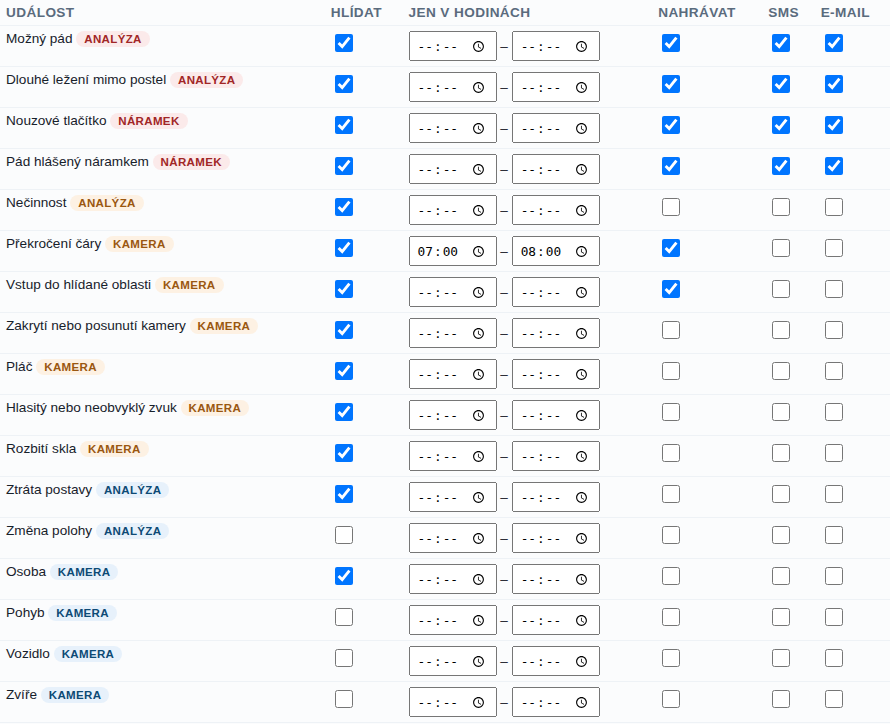
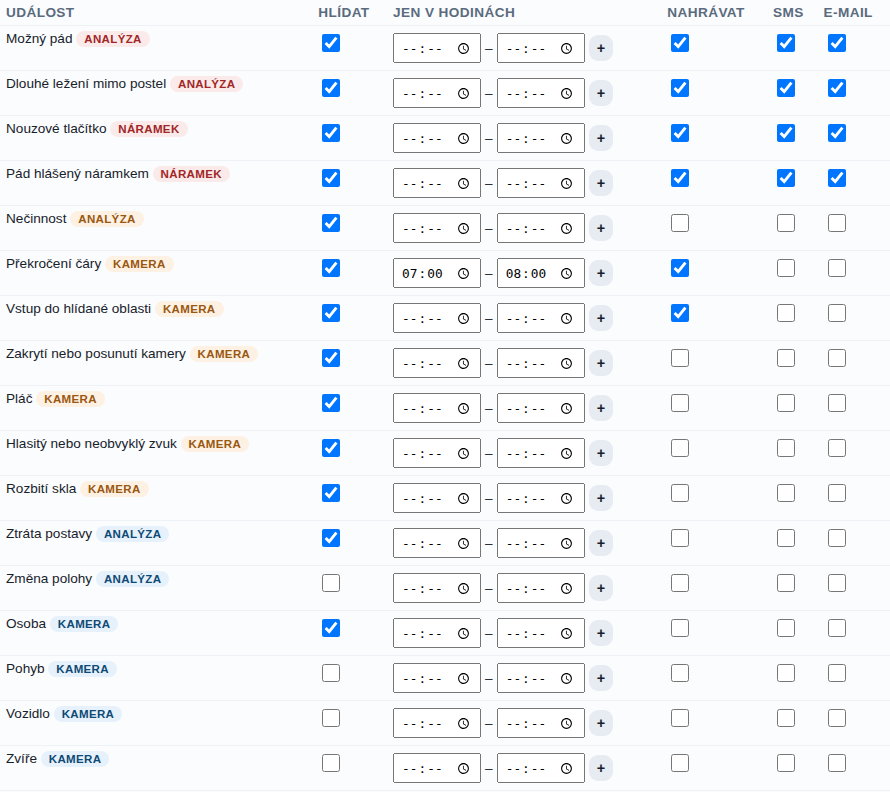
Nastavení: až tři časová okna na událost (Jen v hodinách, tlačítko +), např. 07:00–08:00, 12:00–13:00, 19:00–20:00
- sim-core: okna()/oknaText(), withinHours přes všechna okna, setWatch from2/to2/from3/to3 s kontrolou
  celého okna, popis pro rodinu a důvod zahození s výčtem oken
- dispečink: buňka Jen v hodinách se třemi řádky (druhé a třetí po +), uložení a načtení; CSS
- nápověda, CHANGELOG (2.7); test oken včetně okna přes půlnoc

Claude-Session: https://claude.ai/code/session_013Q43w1EYgsA74FWdGJXT9h

diff --git a/public/proto/napoveda.js b/public/proto/napoveda.js
@@ -16,7 +16,7 @@ export const TEMATA = [
   { id: 'rodina', obrazky: [{ src: '/proto/napoveda/uzivatele.png', popis: 'Uživatelé rodiny v detailu skutečné kamery: založení účtu a pozvánka SMS' }], nazev: 'Uživatelé rodiny a pozvánka SMS', klicova: ['rodin', 'uzivatel', 'pozvank', 'sms', 'ucet', 'heslo', 'telefon', 'prihlasit rodinu', 'zapomn', 'odebrat', 'nedosla', 'nechodi', 'zkusebni', 'twilio'],
     text: 'V detailu skutečné kamery v sekci Komunikace je část „Uživatelé rodiny“. Zadejte jméno a telefon, zaškrtněte „poslat SMS ze serveru“ a založte účet: rodina dostane SMS s odkazem. Heslo v SMS není: rodina si ho zvolí sama po otevření odkazu (obrazovka „Zvolte si heslo“) a dál se přihlašuje telefonem a heslem. Odkaz platí 7 dní a je na jedno použití; otevřený na počítači, kde je přihlášený poskytovatel nebo jiný člen rodiny, přesto ukáže volbu hesla pro nového člena. Změna hesla: v aplikaci rodiny karta Můj účet → Změnit heslo. Zapomenuté heslo: „Nová pozvánka (nové heslo)“ pošle nový odkaz a staré heslo přestane platit. „Odebrat“ účet zruší a rodinu odhlásí. SMS odchází ze serveru přes Make a Twilio; když nedošla, otevřete Nastavení (ozubené kolečko) → SMS rodině a pošlete si zkušební SMS na vlastní číslo: hned uvidíte, jestli je SMS nastavená a jestli došla, případně důvod chyby.' },
   { id: 'sledovani', obrazky: [{ src: '/proto/napoveda/sledovani.png', popis: 'Sekce Nastavení v detailu kamery: Hlídat, Jen v hodinách, Nahrávat, SMS, E-mail' }], nazev: 'Sledování, nahrávání a upozornění (sekce Nastavení)', klicova: ['sledov', 'hlidat', 'nahrav', 'hodiny', 'vypnout udalost', 'nezapsala', 'prekroceni', 'cara', 'zakryti', 'necinnost', 'zatrhnout', 'nastaveni kamery', 'plac', 'zvuk', 'sklo', 'vozidlo', 'zvire', 'oblast', 'vstup', 'detekce', 'co kamera umi'],
-    text: 'Detail kamery má tři sekce: Monitoring (obraz, žádost o plný obraz, nouzový přístup, historie), Komunikace (uživatelé rodiny, kontakty pro upozornění, poznámky) a Nastavení. V Nastavení v tabulce „Sledování, nahrávání a upozornění“ určujete, které události se hlídají, jen v kterých hodinách, jestli se k nim ukládá nahrávka a jestli má při události odejít SMS a e-mail na kontakty zadané v Komunikaci (sloupce SMS a E-mail se zapnou až po vyplnění kontaktů; kritické události mají SMS i e-mail zatržené předem). Z kamery Tapo jsou v tabulce všechny detekce, které umí hlásit: překročení čáry, vstup do hlídané oblasti, zakrytí nebo posunutí kamery, pláč, hlasitý nebo neobvyklý zvuk, rozbití skla, osoba, pohyb, vozidlo a zvíře (štěkot a mňoukání se počítají jako zvíře); co z toho vaše kamera opravdu umí, záleží na modelu (C200 jen pohyb, C210/C220 i osobu, vozidlo, zvíře, čáru, oblast, pláč) a na tom, co je zapnuté v aplikaci Tapo. Vozidlo a zvíře jsou výchozí vypnuté. Rodina to vidí jen ke čtení v kartě „Co poskytovatel hlídá“ (🎞 nahrává, 📱 SMS, ✉ e-mail). Událost mimo nastavené hodiny nebo vypnutá se nezapíše a nikoho neupozorní; panel Simulace pak ukáže, proč.' },
+    text: 'Detail kamery má tři sekce: Monitoring (obraz, žádost o plný obraz, nouzový přístup, historie), Komunikace (uživatelé rodiny, kontakty pro upozornění, poznámky) a Nastavení. V Nastavení v tabulce „Sledování, nahrávání a upozornění“ určujete, které události se hlídají, jen v kterých hodinách (až tři časová okna na událost, tlačítkem + přidáte druhé a třetí, např. 07:00–08:00, 12:00–13:00 a 19:00–20:00; okno přes půlnoc jde také, 22:00–06:00), jestli se k nim ukládá nahrávka a jestli má při události odejít SMS a e-mail na kontakty zadané v Komunikaci (sloupce SMS a E-mail se zapnou až po vyplnění kontaktů; kritické události mají SMS i e-mail zatržené předem). Z kamery Tapo jsou v tabulce všechny detekce, které umí hlásit: překročení čáry, vstup do hlídané oblasti, zakrytí nebo posunutí kamery, pláč, hlasitý nebo neobvyklý zvuk, rozbití skla, osoba, pohyb, vozidlo a zvíře (štěkot a mňoukání se počítají jako zvíře); co z toho vaše kamera opravdu umí, záleží na modelu (C200 jen pohyb, C210/C220 i osobu, vozidlo, zvíře, čáru, oblast, pláč) a na tom, co je zapnuté v aplikaci Tapo. Vozidlo a zvíře jsou výchozí vypnuté. Rodina to vidí jen ke čtení v kartě „Co poskytovatel hlídá“ (🎞 nahrává, 📱 SMS, ✉ e-mail). Událost mimo nastavené hodiny nebo vypnutá se nezapíše a nikoho neupozorní; panel Simulace pak ukáže, proč.' },
   { id: 'upozorneni', obrazky: [{ src: '/proto/napoveda/kontakty.png', popis: 'Sekce Komunikace: až tři čísla na SMS a tři e-maily pro upozornění' }], nazev: 'Upozornění SMS a e-mailem (kontakty kamery)', klicova: ['upozorn', 'kontakt', 'tri cisla', 'e-mail', 'email', 'mail', 'sms pri udalosti', 'komu jde', 'nedosla', 'neprisla', 'kdo dostane'],
     text: 'V detailu kamery v sekci Komunikace → „Kontakty pro upozornění“ zadejte až tři česká mobilní čísla a tři e-maily (rodina, pečovatelka, lékař) a klepněte na Uložit kontakty; změna se zapíše do historie kamery. Pak v sekci Nastavení zatrhněte u událostí sloupce SMS a E-mail: kritické (pád, dlouhé ležení, SOS, pád náramku) jsou zatržené předem, varování a informativní si zapnete podle potřeby. Server při události pošle SMS (text bez diakritiky: klient, událost, čas, telefon dispečinku) a e-mail s podrobnostmi; v Historii je u události 📱 2/2 ✉ 1/1, tedy kolik zpráv odešlo, a při chybě důvod po najetí myší. Odchází jen to, co projde sloupcem Hlídat a hodinami. Posílá se přes stejný webhook Make jako pozvánky (SMS Twilio, e-mail ze schránky Centrum LB); jestli je cesta nastavená, ověříte v Nastavení (ozubené kolečko) tlačítky Poslat SMS a Poslat e-mail.' },
   { id: 'poznamky', obrazky: [{ src: '/proto/napoveda/komunikace.png', popis: 'Sekce Komunikace v detailu kamery: poskytovatel, poznámka ke klientovi, dál uživatelé rodiny, kontakty a poznámky' }, { src: '/proto/napoveda/poznamky.png', popis: 'Poznámky dispečinku: pole, tlačítko a seznam s časem a jménem' }], nazev: 'Poznámky dispečinku ke kameře', klicova: ['poznamk', 'zapsat', 'zapis', 'zaznam', 'log', 'co jsem udelal', 'deník', 'denik'],

diff --git a/public/proto/dispecink.js b/public/proto/dispecink.js
@@ -465,7 +465,7 @@ function renderDetail(rebuild = false) {
       </div></section>
       <section class="dsec hide" data-sec="nastaveni">
         <div class="blok"><h3>Sledování, nahrávání a upozornění</h3><p class="small muted">– nastavuje poskytovatel, rodina to vidí; SMS a E-mail jdou na kontakty z Komunikace</p>
-        <table class="watch"><thead><tr><th>Událost</th><th>Hlídat</th><th>Jen v hodinách</th><th>Nahrávat</th><th>SMS</th><th>E-mail</th></tr></thead><tbody id="dwatch">${WATCH_KINDS.map((k) => `<tr data-k="${k}"><td>${esc(KINDS[k].label)} <span class="badge ${KINDS[k].level}">${esc(KINDS[k].source)}</span></td><td><input type="checkbox" class="on"></td><td><input type="time" class="from"> – <input type="time" class="to"></td><td><input type="checkbox" class="rec"></td><td><input type="checkbox" class="sms"></td><td><input type="checkbox" class="mail"></td></tr>`).join('')}</tbody></table>
+        <table class="watch"><thead><tr><th>Událost</th><th>Hlídat</th><th>Jen v hodinách</th><th>Nahrávat</th><th>SMS</th><th>E-mail</th></tr></thead><tbody id="dwatch">${WATCH_KINDS.map((k) => `<tr data-k="${k}"><td>${esc(KINDS[k].label)} <span class="badge ${KINDS[k].level}">${esc(KINDS[k].source)}</span></td><td><input type="checkbox" class="on"></td><td class="hod"><div class="okno"><input type="time" class="from"> – <input type="time" class="to"> <button type="button" class="sm sec okno-dalsi" title="přidat další časové okno (až tři, např. 07:00–08:00, 12:00–13:00, 19:00–20:00)">+</button></div><div class="okno hide"><input type="time" class="from2"> – <input type="time" class="to2"></div><div class="okno hide"><input type="time" class="from3"> – <input type="time" class="to3"></div></td><td><input type="checkbox" class="rec"></td><td><input type="checkbox" class="sms"></td><td><input type="checkbox" class="mail"></td></tr>`).join('')}</tbody></table>
         <p class="small muted" id="dwatchPozn"></p>
       </div></section>`;
     detailUnreg = zdrojPro(p.id).register(d.querySelector('#dcv'), () => detailMode(selected));
@@ -479,6 +479,7 @@ function renderDetail(rebuild = false) {
         const k = tr.dataset.k, w = pp.watch?.[k] || { on: true, from: '', to: '', rec: false };
         if (document.activeElement && tr.contains(document.activeElement)) return;
         tr.querySelector('.on').checked = w.on; tr.querySelector('.from').value = w.from; tr.querySelector('.to').value = w.to; tr.querySelector('.rec').checked = w.rec;
+        for (const n of [2, 3]) { const f = tr.querySelector('.from' + n), t = tr.querySelector('.to' + n); f.value = w['from' + n] || ''; t.value = w['to' + n] || ''; if (f.value || t.value) f.closest('.okno').classList.remove('hide'); }
         const cs = tr.querySelector('.sms'), cm = tr.querySelector('.mail');
         cs.checked = w.sms ?? upozorneniVychozi(k); cm.checked = w.mail ?? upozorneniVychozi(k);
         cs.disabled = !kk.sms.length; cm.disabled = !kk.mail.length;
@@ -492,8 +493,10 @@ function renderDetail(rebuild = false) {
     naplnWatch();
     d.querySelectorAll('#dwatch tr').forEach((tr) => {
       const k = tr.dataset.k;
-      const push = () => sim.setWatch(p.id, k, { on: tr.querySelector('.on').checked, from: tr.querySelector('.from').value, to: tr.querySelector('.to').value, rec: tr.querySelector('.rec').checked, sms: tr.querySelector('.sms').checked, mail: tr.querySelector('.mail').checked });
+      const push = () => sim.setWatch(p.id, k, { on: tr.querySelector('.on').checked, from: tr.querySelector('.from').value, to: tr.querySelector('.to').value, from2: tr.querySelector('.from2').value, to2: tr.querySelector('.to2').value, from3: tr.querySelector('.from3').value, to3: tr.querySelector('.to3').value, rec: tr.querySelector('.rec').checked, sms: tr.querySelector('.sms').checked, mail: tr.querySelector('.mail').checked });
       tr.querySelectorAll('input').forEach((i) => { i.onchange = push; });
+      // + odkryje další okno (druhé, pak třetí); okna se zapisují jen vyplněná celá
+      tr.querySelector('.okno-dalsi').onclick = () => { const skryta = [...tr.querySelectorAll('.okno.hide')]; if (skryta.length) { skryta[0].classList.remove('hide'); skryta[0].querySelector('input').focus(); } if (skryta.length <= 1) tr.querySelector('.okno-dalsi').disabled = true; };
     });
     d.querySelector('#closeD').onclick = () => { selected = null; renderDetail(); renderTiles(); };
     renderUzivatele(p);

diff --git a/public/proto/sim-core.js b/public/proto/sim-core.js
@@ -49,7 +49,7 @@ export function defaultWatch() {
   return w;
 }
 export function describeWatch(w) {
-  const hodiny = (r) => (r.from ? ` ${r.from}–${r.to}` : '');
+  const hodiny = (r) => { const t = oknaText(r); return t ? ` ${t}` : ''; };
   const on = WATCH_KINDS.filter((k) => w[k]?.on).map((k) => KINDS[k].label.toLowerCase() + hodiny(w[k]) + (w[k].rec ? ' 🎞' : '') + (w[k].sms ? ' 📱' : '') + (w[k].mail ? ' ✉' : ''));
   return on.length ? on.join(', ') : 'nic';
 }
@@ -140,12 +140,23 @@ export function efektivni(s, p, now = Date.now(), nocSimulovana = false) {
   const mode = p.consent[noc ? 'noc' : 'den'];
   return { mode, proc: `${CONSENT[mode]} (${noc ? `noc do ${denOd}` : `den do ${nocOd}`}, nastavila rodina)`, zdroj: noc ? 'noc' : 'den' };
 }
+/** Časová okna události: až tři dvojice od–do (from/to, from2/to2, from3/to3); jen vyplněné obě strany. */
+export function okna(r) {
+  const out = [];
+  for (const [f, t] of [[r?.from, r?.to], [r?.from2, r?.to2], [r?.from3, r?.to3]]) if (f && t) out.push([f, t]);
+  return out;
+}
+export const oknaText = (r) => okna(r).map(([f, t]) => `${f}–${t}`).join(', ');
+/** Platí teď? Bez oken celý den; jinak když padne do kteréhokoli (okno přes půlnoc: 22:00–06:00). */
 export function withinHours(r, d = new Date()) {
-  if (!r.from || !r.to) return true;
+  const o = okna(r);
+  if (!o.length) return true;
   const m = minutaDne(d);
-  const [fh, fm] = r.from.split(':').map(Number), [th, tm] = r.to.split(':').map(Number);
-  const f = fh * 60 + fm, t = th * 60 + tm;
-  return f < t ? (m >= f && m < t) : (m >= f || m < t);
+  return o.some(([from, to]) => {
+    const [fh, fm] = from.split(':').map(Number), [th, tm] = to.split(':').map(Number);
+    const f = fh * 60 + fm, t = th * 60 + tm;
+    return f < t ? (m >= f && m < t) : (m >= f || m < t);
+  });
 }
 
 const FAKE = [
@@ -217,7 +228,7 @@ const akce = {
     const pw = p?.watch?.[kind];
     if (pw && (!pw.on || !withinHours(pw, new Date(now)))) {
       // dropped by the provider's settings; the panel says so, the history stays clean
-      s.lastDropped = { at: now, patientId, kind, reason: !pw.on ? 'poskytovatel událost vypnul' : `mimo hodiny ${pw.from}–${pw.to}` };
+      s.lastDropped = { at: now, patientId, kind, reason: !pw.on ? 'poskytovatel událost vypnul' : `mimo hodiny ${oknaText(pw)}` };
       return { vysledek: null };
     }
     const ev = { id: nid(s), at: now, patientId, kind, state: k.level === 'info' ? 'uzavřen' : 'nový', by: null, result: null, note: '', rec: !!pw?.rec };
@@ -259,8 +270,8 @@ const akce = {
     if ('rec' in patch) w.rec = bool(patch.rec);
     if ('sms' in patch) w.sms = bool(patch.sms);
     if ('mail' in patch) w.mail = bool(patch.mail);
-    if ('from' in patch) w.from = hodina(patch.from);
-    if ('to' in patch) w.to = hodina(patch.to);
+    for (const k of ['from', 'to', 'from2', 'to2', 'from3', 'to3']) if (k in patch) w[k] = hodina(patch[k]);
+    for (const [f, t] of [['from', 'to'], ['from2', 'to2'], ['from3', 'to3']]) if (!!w[f] !== !!w[t]) throw chyba('Vyplňte začátek i konec okna, nebo ani jedno.');
     p.watch[kind] = w;
     return {};
   },

diff --git a/public/proto/proto.css b/public/proto/proto.css
@@ -276,6 +276,9 @@ body.app #notifs .banner,body.app #requests .banner{box-shadow:0 2px 10px rgba(2
 table.watch td,table.watch th{padding:5px 6px;font-size:.85rem}
 table.watch input[type=time]{min-height:30px;padding:2px 6px;font-size:.8rem;width:88px}
 table.watch input[type=checkbox]{width:18px;height:18px}
+table.watch td.hod{white-space:nowrap}
+table.watch .okno{display:flex;gap:4px;align-items:center;margin:2px 0}
+table.watch .okno-dalsi{min-height:26px;padding:0 8px;font-size:.9rem;line-height:1}
 .demo{display:flex;gap:14px;align-items:center;justify-content:space-between;flex-wrap:wrap;background:#e7f1fb;border:1px solid #c7ddf3;border-radius:14px;padding:12px 14px;margin-top:14px}
 .demo b{display:block;font-size:1rem}
 .demo span{font-size:.9rem;color:var(--muted)}

diff --git a/CHANGELOG.md b/CHANGELOG.md
@@ -22,6 +22,9 @@ dispečinku. Postup nové verze je v README, část „Verze“.
   SMS, e-mail i nahrávka odcházejí hned, i když nikdo nemá dispečink
   otevřený. Dříve bez otevřené stránky nahrávka vznikla až při příštím
   otevření, tedy pozdě.
+- **Až tři časová okna na událost** (Nastavení → Jen v hodinách, tlačítko +):
+  např. 07:00–08:00, 12:00–13:00 a 19:00–20:00; událost se hlídá, když
+  padne do kteréhokoli; rodina vidí všechna okna v „Co poskytovatel hlídá“.
 - **Opakované hlášení kamery během nahrávky** (překročení čáry třikrát za
   20 s) už nezapisuje řádky „neuloženo: nahrávka z téhle kamery právě
   běží“: druhá a další událost patří k běžící nahrávce (v historii na ni
